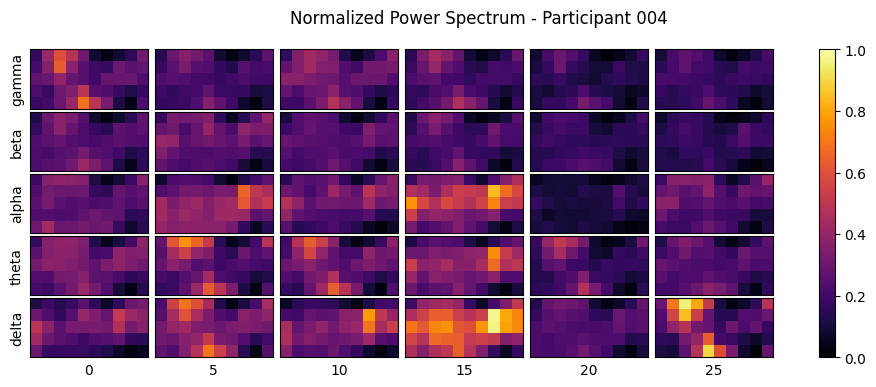
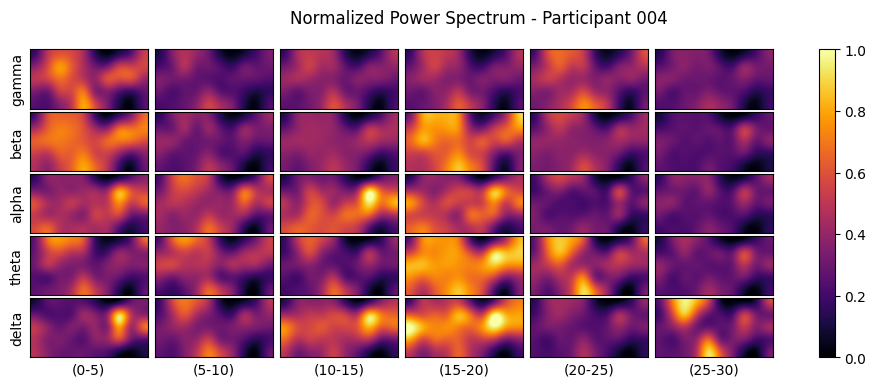
update figures

diff --git a/visualize.py b/visualize.py
@@ -7,7 +7,7 @@ from matplotlib import pyplot as plt
 from matplotlib.axes import Axes
 from matplotlib.figure import Figure
 
-from info import EEG_SHAPE, participants, TARGET_BANDWIDTHS
+from info import EEG_SHAPE, participants
 
 band_names = ['delta', 'theta', 'alpha', 'beta', 'gamma']
 
@@ -26,8 +26,9 @@ if __name__ == '__main__':
             axs[r][0].set_ylabel(band_names[-r - 1])
             # column
             for c in range(C):
-                t = c * step
-                axs[-1][c].set_xlabel(f'{t}')
+                lo = c * step
+                hi = (c + 1) * step
+                axs[-1][c].set_xlabel(f'({lo}-{hi})')
                 # select data - shape: (N, C, H, W, R)
                 d = data[f'{p}_x']
                 # get exponent of differential entropy, for true power
@@ -41,9 +42,11 @@ if __name__ == '__main__':
                 d_min = np.min(d)
                 d_max = np.max(d)
                 d = (d - d_min) / (d_max - d_min)
+                # obtain data within time range
+                d = np.amax(d[lo:hi], axis=0)
                 # power spectrum
                 ax = axs[r][c]
-                im = ax.imshow(d[t, :, :, -r - 1], cmap='inferno', vmin=0, vmax=1)
+                im = ax.imshow(d[:, :, -r - 1], cmap='inferno', vmin=0, vmax=1, interpolation='spline36')
                 ax.set_xticks([])
                 ax.set_yticks([])
         fig.subplots_adjust(wspace=0.05, hspace=0.05)
